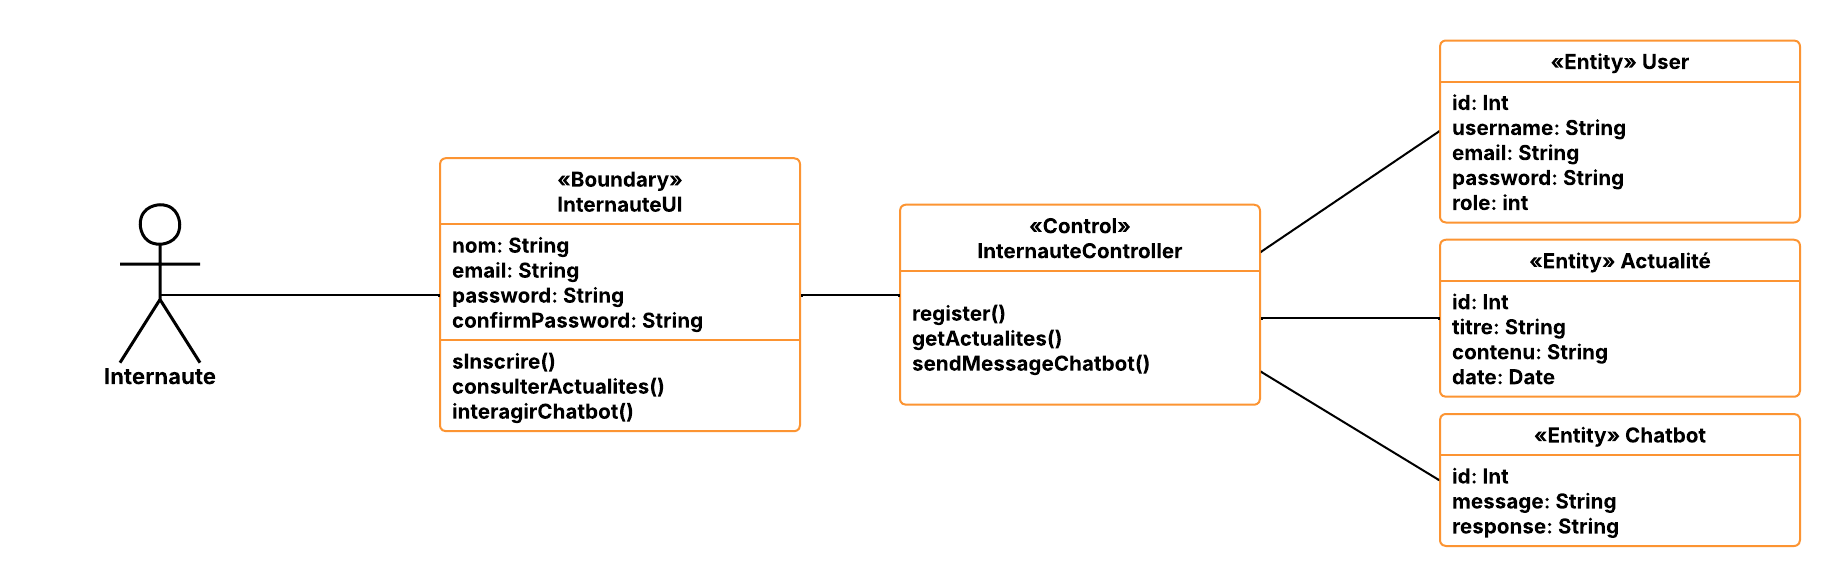
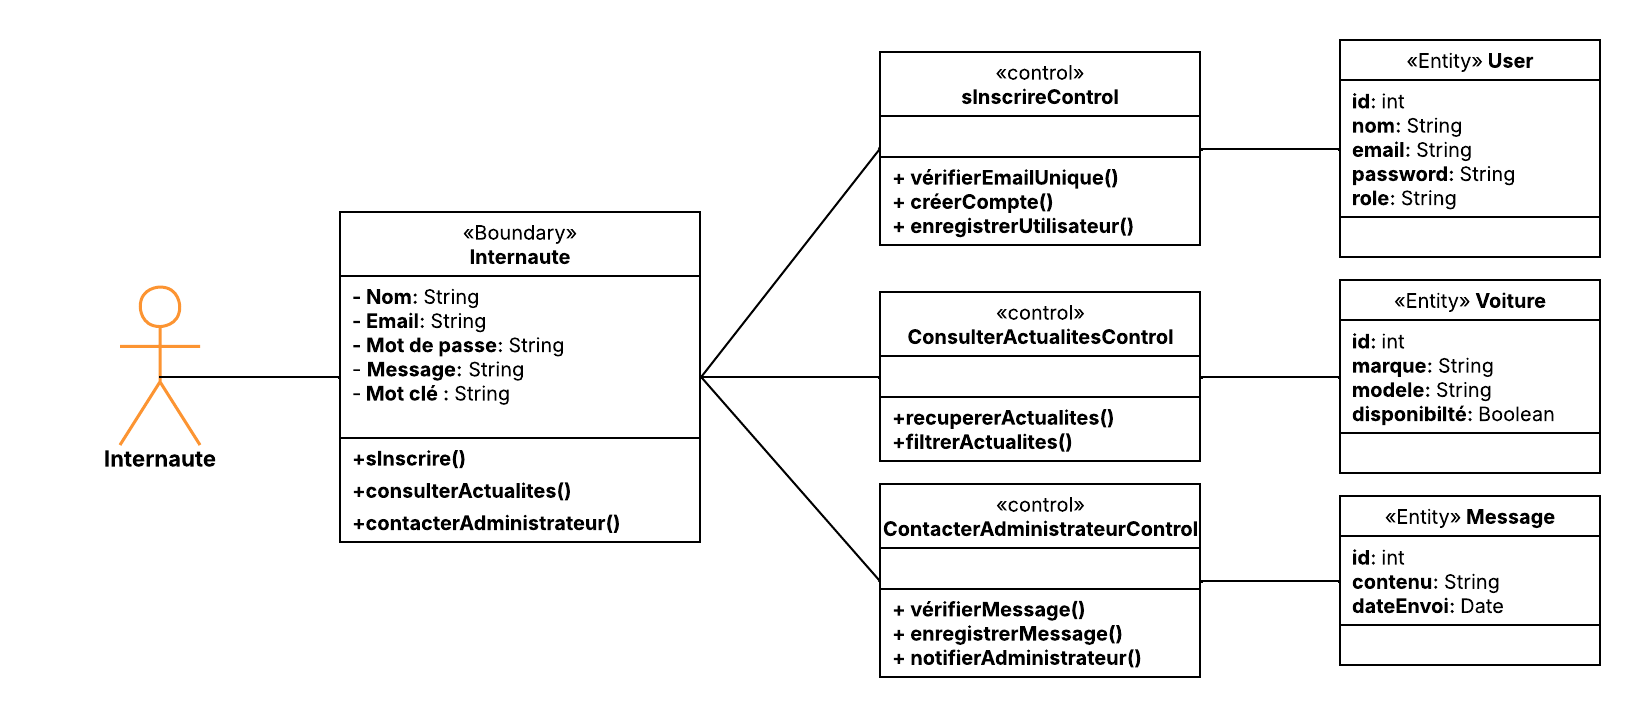
26/5

Changed region(s): [[0.0622, 0.0307, 0.9951, 0.9522], [0.5287, 0.0614, 0.7463, 0.1843], [0.0622, 0.3379, 0.0933, 0.3686]]

diff --git a/Chapitres/Chapitre4.tex b/Chapitres/Chapitre4.tex
@@ -516,11 +516,21 @@ diagramme de séquence détaillé correspondant à chaque cas d'utilisation anal
 \label{sec:classes_participantes_s2}
 
 
+
+\subsubsection{Diagramme des classes participantes par acteur "Internaute''}
+\label{Diag_classes_participantes_internaute_s2}
+\begin{figure}[H]
+    \centering
+    \includegraphics[width=1\textwidth]{Chapitres/Figures/classes_participantes__Internaute_s2.png}
+    \caption{Diagramme des classes participantes par acteur Internaute}
+    \label{fig:classes_participantes_internaute_s2}
+\end{figure}
+
 \subsubsection{Diagramme des classes participantes par acteur "Utilisateur''}
 \label{Diag_classes_participantes_utilisateur_s2}
 \begin{figure}[H]
     \centering
-    \includegraphics[width=1\textwidth]{Chapitres/Figures/classes_participantes__utilisateur_s2.png}
+    \includegraphics[width=1\textwidth]{Chapitres/Figures/classes_participantes__Utilisateur_s2.png}
     \caption{Diagramme des classes participantes par acteur Utilisateur}
     \label{fig:classes_participantes_utilisateur_s2}
 \end{figure}
@@ -547,7 +557,7 @@ diagramme de séquence détaillé correspondant à chaque cas d'utilisation anal
 \label{Diag_classes_participantes_administrateur_s2}
 \begin{figure}[H]
     \centering
-    \includegraphics[width=1\textwidth]{Chapitres/Figures/classes_participantes__admin_s2.png}
+    \includegraphics[width=1\textwidth]{Chapitres/Figures/classes_participantes__administrateur_s2.png}
     \caption{Diagramme des classes participantes par acteur Administrateur}
     \label{fig:classes_participantes_admin_s2}
 \end{figure}
